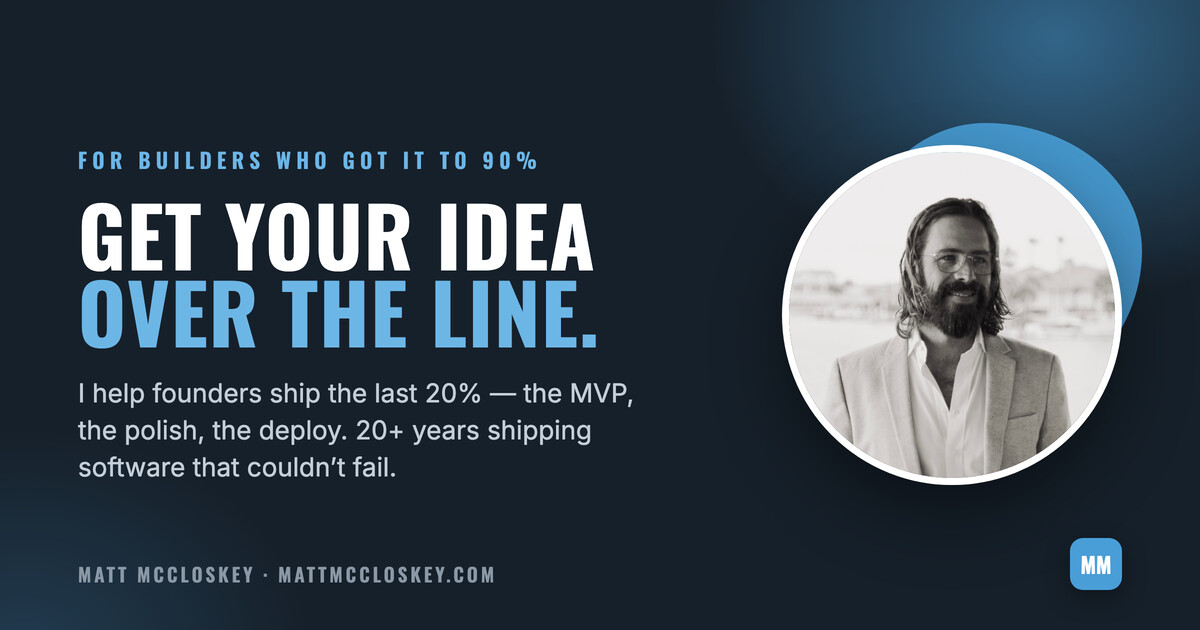
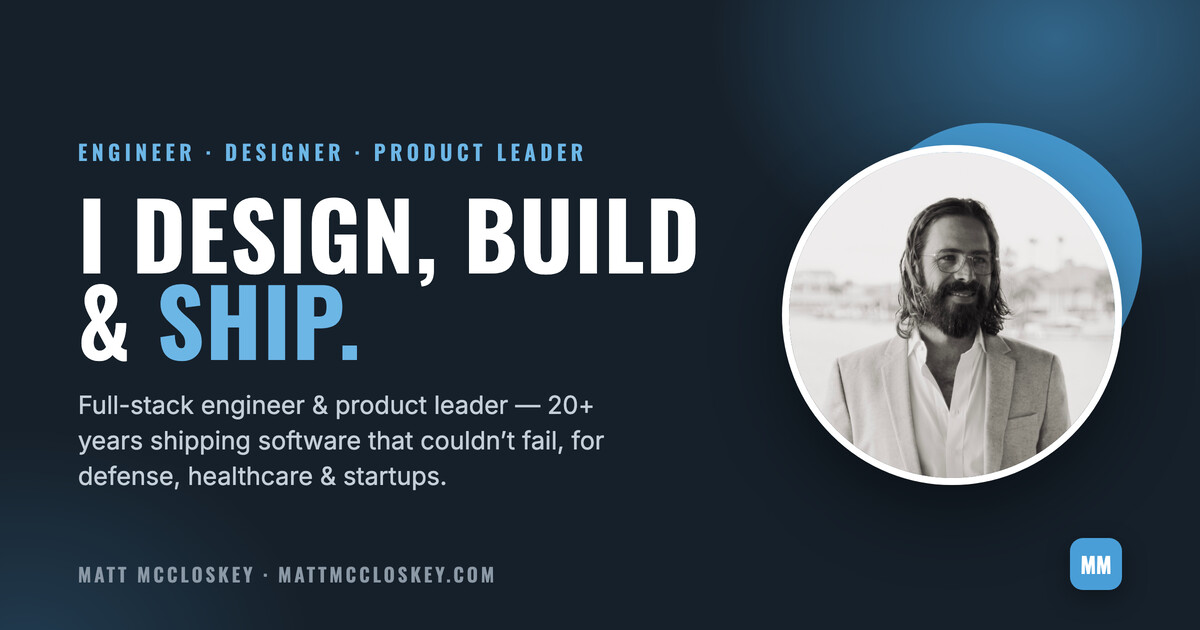
Reposition home as dual-audience (employer + consulting)
Shift the home page from a pure consulting pitch to an identity- and
capability-led site that reads well for hiring managers and founders alike.

- Hero: identity eyebrow + "I design, build, and ship software that
  couldn't fail"; neutral "Let's talk" CTA
- "The Service" → "How I Work" (same Clarify/Stabilize/Polish/Ship steps)
- Engagement tiers → Lead / Build / Advise modes (Lead = full-time or
  fractional, so employment is clearly on the table)
- Contact: "Hiring, building, or just curious?"; nav → Work/Portfolio/
  Projects/Resume
- Meta title + OG card regenerated to the identity positioning

Changed region(s): [[0.0617, 0.3016, 0.5858, 0.573], [0.0617, 0.6032, 0.5242, 0.7841], [0.0617, 0.2111, 0.4933, 0.2714]]

diff --git a/src/data/services.ts b/src/data/services.ts
@@ -1,4 +1,4 @@
-// Consulting offer content for the home page.
+// Home-page "how I work" + "how I can help" content.
 
 export interface ServiceMove {
   step: string;
@@ -34,32 +34,30 @@ export const moves: ServiceMove[] = [
   },
 ];
 
-export interface Engagement {
+export interface Mode {
   name: string;
   bestFor: string;
   blurb: string;
-  featured?: boolean;
 }
 
-// Ways to work together.
-export const engagements: Engagement[] = [
+// The ways I plug into a team — employment or engagement.
+export const modes: Mode[] = [
   {
-    name: 'Production Audit',
-    bestFor: 'You want a plan',
+    name: 'Lead',
+    bestFor: 'Direction & delivery',
     blurb:
-      'A focused review of your product, code, and UX — what the MVP really is, where to cut scope, and an honest, prioritized roadmap to launch.',
+      'Product and engineering leadership, full-time or fractional. I set direction, build the team, and own delivery end to end.',
   },
   {
-    name: 'Stabilize & Ship',
-    bestFor: 'You want it done',
+    name: 'Build',
+    bestFor: 'Hands-on in the code',
     blurb:
-      'I take your 80–90% build the rest of the way — hands-on engineering and design until it’s live and holding up in production.',
-    featured: true,
+      'Senior IC work: architecture, full-stack, and AI. I design the system and write the code that ships to production.',
   },
   {
-    name: 'Fractional Product Engineer',
-    bestFor: 'You want a partner',
+    name: 'Advise',
+    bestFor: 'A clear path forward',
     blurb:
-      'Ongoing senior product, design, and engineering help as you grow past launch — a steady hand on the wheel, without a full-time hire.',
+      'Audits, architecture reviews, and an honest, prioritized roadmap — so your team knows exactly what to build and fix.',
   },
 ];
